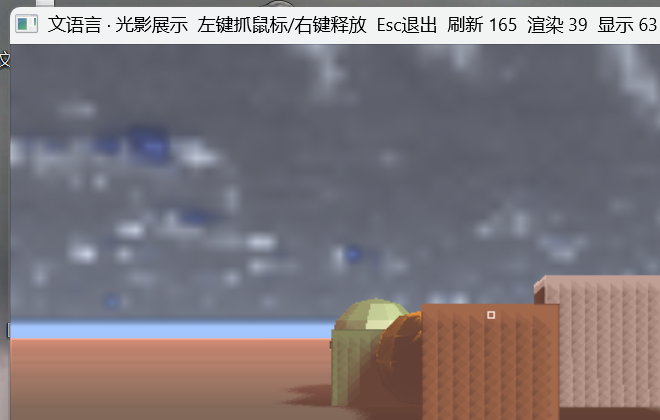
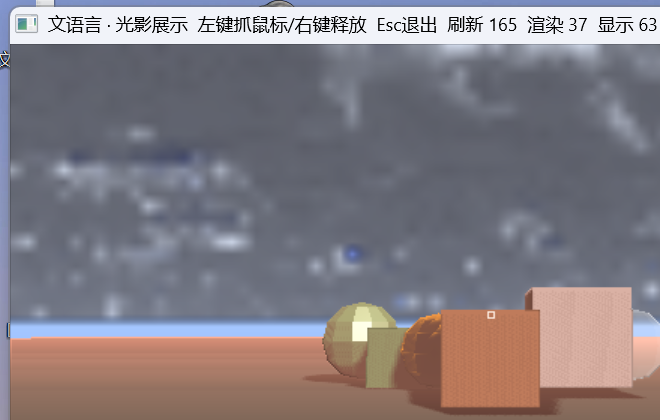
阴影稳定：跟随相机/纹素对齐/normal offset/小斜率bias；球体材质与截图；152/154

diff --git a/wen.cpp b/wen.cpp
@@ -11460,7 +11460,7 @@ Interpreter::Interpreter() {
             }
         }
         PVec light = pnorm({0.45,1.0,0.35});
-        PVec cam{0,1.7,4.5};
+        PVec cam{0,1.7,7.5};
         double yaw = 0, pitch = 0.02;
         pw.capture = false; ShowCursor(TRUE);
         std::thread presenter([&]() {
@@ -11503,7 +11503,7 @@ Interpreter::Interpreter() {
             auto frameStart=std::chrono::steady_clock::now();
             {
                 double ts = std::chrono::duration<double>(frameStart - t0).count();
-                light = pnorm({0.45 + 0.35 * std::sin(ts * 0.7), 1.0, 0.35 + 0.35 * std::cos(ts * 0.5)});
+                light = pnorm({0.45 + 0.35 * std::sin(ts * 0.12), 1.0, 0.35 + 0.35 * std::cos(ts * 0.09)});
             }
             MSG msg;
             while (PeekMessageW(&msg, nullptr, 0, 0, PM_REMOVE)) { TranslateMessage(&msg); DispatchMessageW(&msg); }
@@ -11730,12 +11730,14 @@ Interpreter::Interpreter() {
                 double xx=pdot(d,r), yy=pdot(d,u); double fl=(double)h*0.95;
                 sx=w*0.5+xx*fl/zz; sy=h*0.5-yy*fl/zz; z=zz; return true;
             };
-            const int SM = 256;
+            const int SM = 512;
             vector<float> shadowMap;
             PVec lright, lup, lfwd;
             auto buildShadowMap = [&]() {
                 shadowMap.assign((size_t)SM * SM, 1e30f);
-                PVec center{0, 2.0, -2.0};
+                // 阴影框跟随相机并做纹素对齐，避免移动时整片阴影抖动
+                double texel = 30.0 / SM;
+                PVec center{std::floor(cam.x / texel) * texel, 2.0, std::floor(cam.z / texel) * texel};
                 PVec lc = padd(center, pmul(light, 20.0));
                 lfwd = pmul(light, -1.0);
                 lright = pnorm(pcross(lfwd, pv(0,1,0)));
@@ -11770,14 +11772,19 @@ Interpreter::Interpreter() {
                     }
                 }
             };
-            auto sampleShadow = [&](PVec p) {
+            auto sampleShadow = [&](PVec p, PVec n) {
                 if (shadowMap.empty()) return 1.0;
-                PVec center{0, 2.0, -2.0};
+                // 法线偏移：把采样点推离表面，避免自阴影和阴影脱离物体
+                PVec sp = padd(p, pmul(n, 0.035));
+                double texel = 30.0 / SM;
+                PVec center{std::floor(cam.x / texel) * texel, 2.0, std::floor(cam.z / texel) * texel};
                 PVec lc = padd(center, pmul(light, 20.0));
-                PVec d = psub(p, lc);
+                PVec d = psub(sp, lc);
                 double sx = (pdot(d, lright) + 15.0) / 30.0 * SM;
                 double sy = (pdot(d, lup) + 15.0) / 30.0 * SM;
-                double dz = pdot(d, lfwd) - 0.25;
+                double slope = 1.0 - std::fabs(pdot(n, light));
+                double bias = 0.025 + 0.10 * slope;
+                double dz = pdot(d, lfwd) - bias;
                 if (sx < 1 || sy < 1 || sx >= SM-1 || sy >= SM-1) return 1.0;
                 int cx=(int)sx, cy=(int)sy, lit=0, total=0;
                 for(int oy=-1;oy<=1;++oy) for(int ox=-1;ox<=1;++ox) {
@@ -11834,7 +11841,7 @@ Interpreter::Interpreter() {
                     double wx=w0*pa.x+w1*pb.x+w2*pc.x;
                     double wy=w0*pa.y+w1*pb.y+w2*pc.y;
                     double wz=w0*pa.z+w1*pb.z+w2*pc.z;
-                    double shade = receive ? sampleShadow({wx,wy,wz}) : 1.0;
+                    double shade = receive ? sampleShadow({wx,wy,wz}, n) : 1.0;
                     if (receive && wy > 0.02) shade *= cloudShadowAt({wx,wy,wz});
                     PVec vdir = pnorm(psub(cam, {wx,wy,wz}));
                     PVec hv = pnorm(padd(light, vdir));

diff --git a/版本验证报告.md b/版本验证报告.md
@@ -1,6 +1,6 @@
 # 版本验证报告
 
-- 生成时间：2026-10-28 17:00:28
+- 生成时间：2026-10-28 17:14:20
 - 版本：`0.1.0-snapshot`
 - 测试：未运行
 
@@ -17,8 +17,8 @@
 可运行: 真
 ```
 
[1 lines of base64/hex data omitted]
-- 大小：6198292 字节
[1 lines of base64/hex data omitted]
+- 大小：6199316 字节
 
 ## 插件
 
